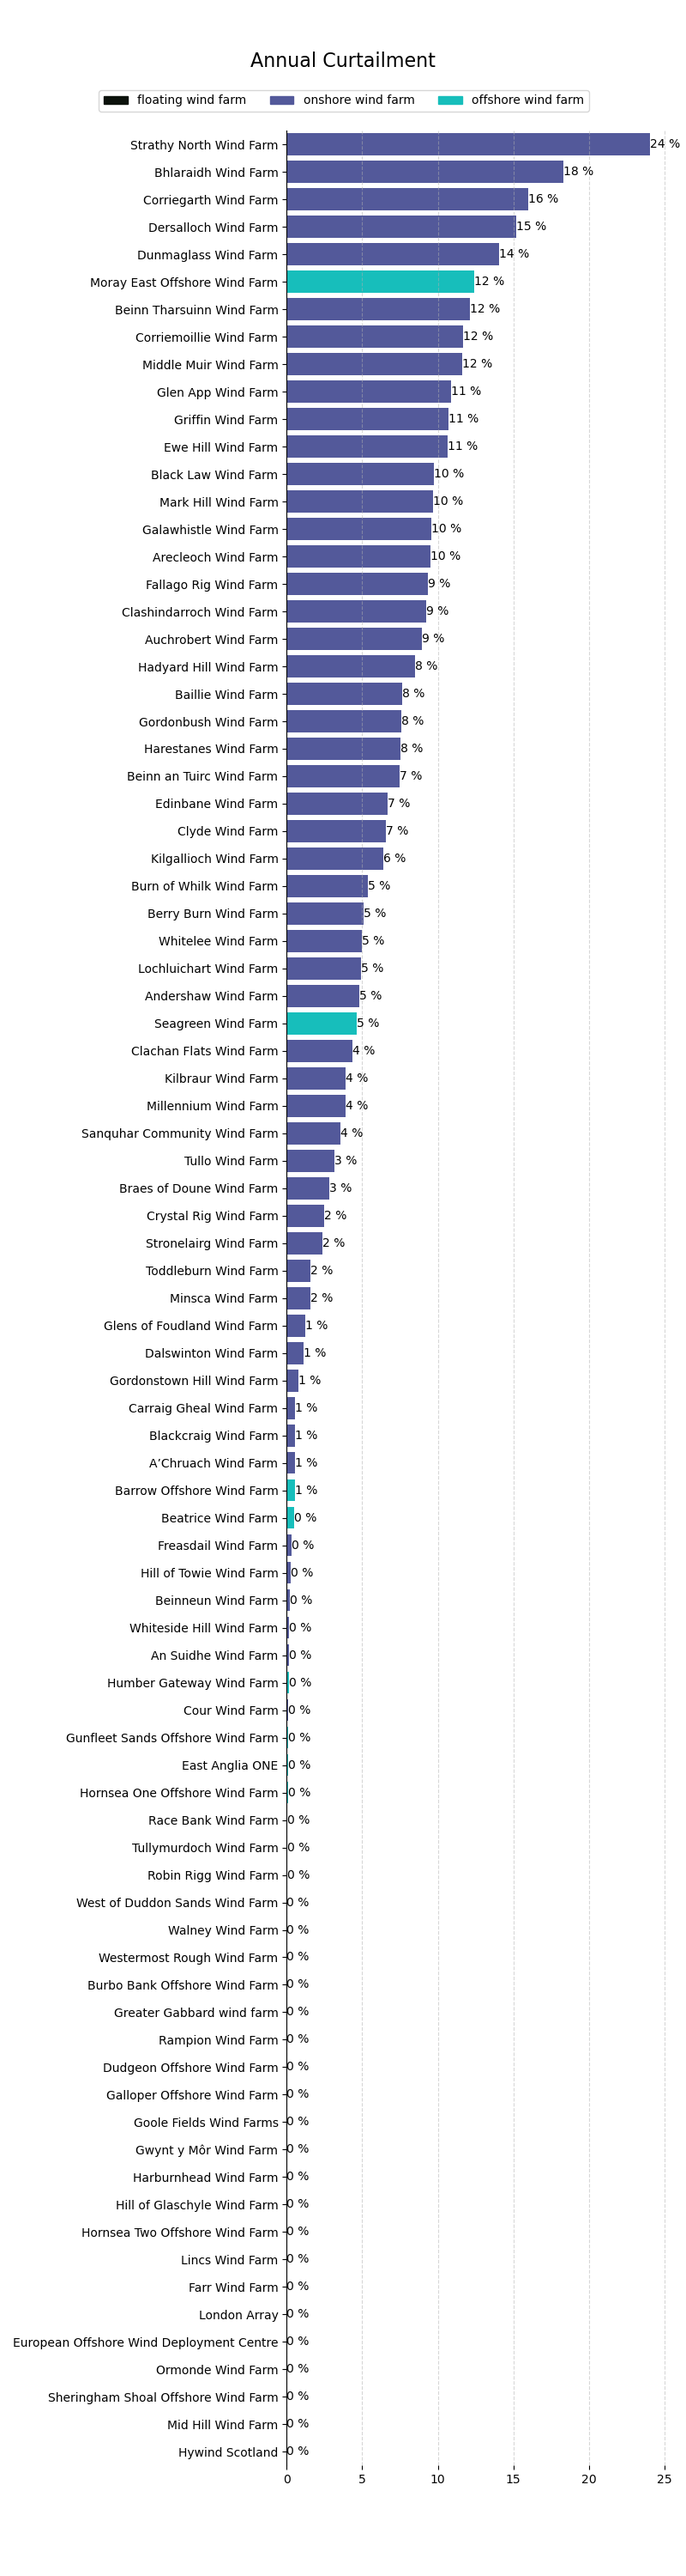
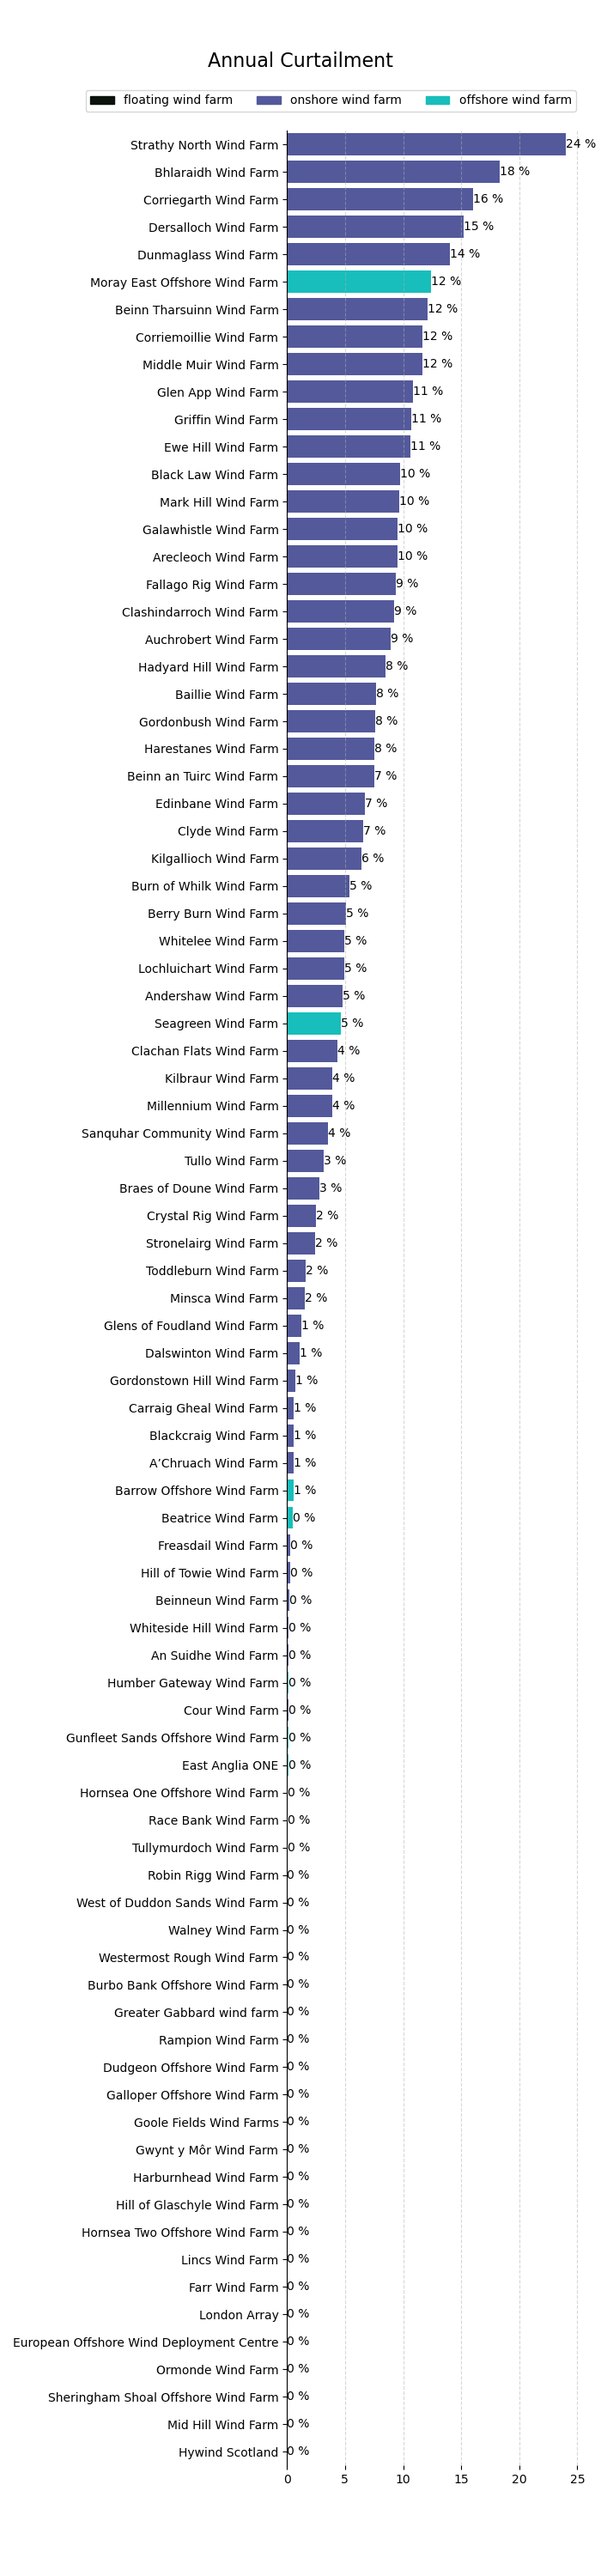
Update date in energy_yields.md and adjust figure size in curtailment_plots.py

diff --git a/src/analysis_scripts/curtailment_plots.py b/src/analysis_scripts/curtailment_plots.py
@@ -43,7 +43,7 @@ def plot_largest_farms():
     # Sort the DataFrame
     pcey_df.sort_values(by='p50_ideal_yield', ascending=True, inplace=True)
 
-    fig = plt.figure(figsize=(8, 30))
+    fig = plt.figure(figsize=(7, 30))
     ax = fig.add_subplot(111)
     # Custom legend handles
     legend_handles = []
@@ -104,7 +104,7 @@ def plot_curtailment():
     # Sort the DataFrame
     pcey_df.sort_values(by='curtailment_%', ascending=True, inplace=True)
 
-    fig = plt.figure(figsize=(8, 30))
+    fig = plt.figure(figsize=(7, 30))
     ax = fig.add_subplot(111)
 
     # Custom legend handles

diff --git a/docs/_pages/energy_yields.md b/docs/_pages/energy_yields.md
@@ -1,7 +1,7 @@
 ---
 title: Energy Yields
 author: James Twallin
-date: 2023-12-06
+date: 2023-12-07
 category: windfarm
 layout: post
 ---
